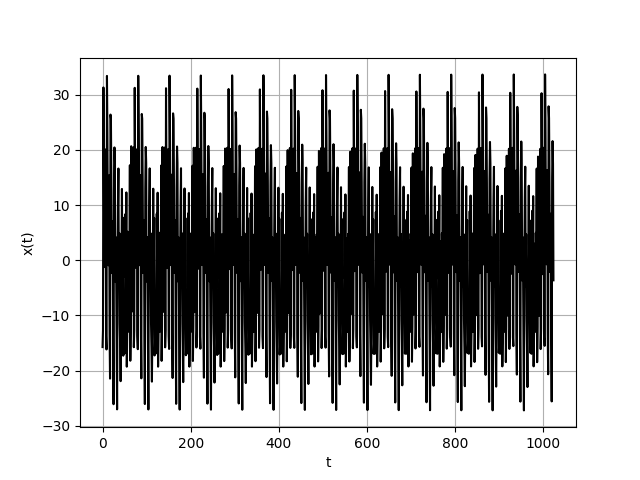
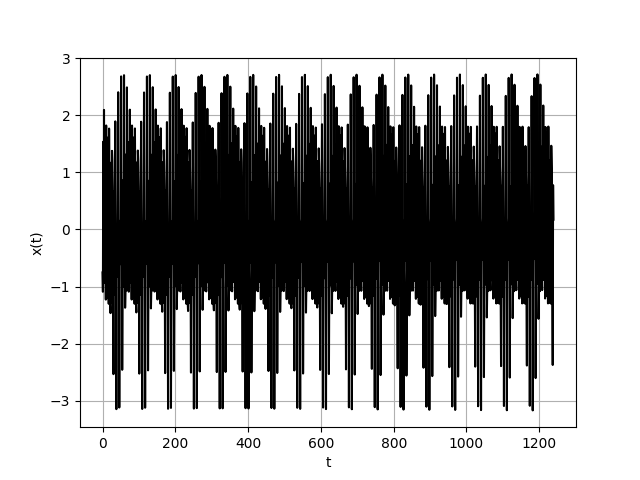
upgraded lab01

diff --git a/Lab01/main.py b/Lab01/main.py
@@ -9,43 +9,69 @@ HARMONICS = 8
 FREQUENCY = 1200
 STEP = FREQUENCY / HARMONICS
 
+
 amplitudes = []
 shifts = []
-x=[]
+
 
 for harmonic in range(HARMONICS):
-    amplitudes.append(random.uniform(0.1, 10.0))
+    amplitudes.append(random.uniform(0.0, 1.0))
     shifts.append(random.uniform(0.0, 2*np.pi))
 
-start = time.time()
-for t in range(SCALE):
-    currentSum = 0;
-    for harmonic in range(HARMONICS):
-        currentSum += amplitudes[harmonic]*np.sin(STEP*(harmonic+1)*t+shifts[harmonic])
-    x.append(currentSum)
-elapsedTime = time.time() - start;
-print("Elapsed time for x(t) calculation = {}".format(elapsedTime))
-print("----------------------------------------------------------")
+
+def signal(scale, x):
+    start = time.time()
+    for t in range(scale):
+        currentSum = 0;
+        for harmonic in range(HARMONICS):
+            currentSum += amplitudes[harmonic]*np.sin(STEP*(harmonic+1)*t+shifts[harmonic])
+        x.append(currentSum)
+    elapsedTime = time.time() - start;
+    print("Elapsed time for x(t) calculation = {}".format(elapsedTime))
+    print("----------------------------------------------------------")
+    return elapsedTime;
+
+
+x1 = []
+signal(SCALE, x1)
+
+
+x=[]
+scales = []
+times = []
+for i in range(1, 5):
+    currentScale = SCALE * i
+    scales.append(currentScale)
+    currentTime = signal(currentScale, x)
+    times.append(currentTime)
+
 
 start = time.time()
-ev = sum(x) / SCALE
+ev = sum(x1) / SCALE
 elapsedTime = time.time() - start;
 print("Expected value = {}".format(ev))
 print("Elapsed time for expected value calculation = {}".format(elapsedTime))
 print("----------------------------------------------------------")
 
 start = time.time()
-dispertion = sum(((v-ev)*(v-ev)) for v in x) / (SCALE-1)
+dispertion = sum(((v-ev)*(v-ev)) for v in x1) / (SCALE-1)
 elapsedTime = time.time() - start;
 print("Dispertion = {}".format(dispertion))
 print("Elapsed time for dispertion calculation = {}".format(elapsedTime))
 print('----------------------------------------------------------')
 
-# Drawing
+
+plt.subplot(2, 1, 1)
 t = np.arange(0, SCALE, 1)
-plt.plot(t, x, 'k')
+plt.plot(t, x1, 'k')
 plt.xlabel('t')
 plt.ylabel('x(t)')
 plt.grid(True)
+
+plt.subplot(2, 1, 2)
+plt.plot(scales, times, 'r')
+plt.xlabel('N')
+plt.ylabel('t')
+
 plt.savefig('fig.png')
-# plt.show()
+plt.show()

diff --git a/Lab02/main.py b/Lab02/main.py
@@ -1,0 +1,53 @@
+import numpy as np
+import matplotlib.pyplot as plt
+import random
+import time
+
+
+SCALE = 1024
+HARMONICS = 8
+FREQUENCY = 1200
+STEP = FREQUENCY / HARMONICS
+
+
+# class Harmonic:
+#     def __init__(self, frequency, scale):
+#         self.amplitude = random.uniform(0.0, 1.0)
+#         self.phase = random.uniform(0.0, 2*np.pi)
+#         current_xs = [0 for _ in range(scale)]
+#         current_xs = [self.amplitude*np.sin(frequency*t+self.phase) for t in range(scale)]
+#         self.xs = current_xs
+#
+#
+# class Signal:
+#     def __init__(self, harmonic_amount, scale):
+#         current_sum = [0 for _ in range(scale)]
+#         for i in range(1, harmonic_amount+1):
+#             current_harmonic = Harmonic(STEP*i, scale)
+#             current_sum = [current_sum[t]+current_harmonic.xs[t] for t in range(scale)]
+#         self.xss = current_sum
+#
+#
+# def generateSignal(harmonic_amount, scale):
+#     signal = Signal(harmonic_amount, scale)
+#     ts = [t for t in range(scale)]
+#     plt.plot(ts, signal.xss, 'k')
+#     plt.grid(True)
+#     plt.show()
+#
+#
+# generateSignal(HARMONICS, SCALE)
+# plt.subplot(2, 1, 1)
+# t = np.arange(0, SCALE, 1)
+# plt.plot(t, x1, 'k')
+# plt.xlabel('t')
+# plt.ylabel('x(t)')
+# plt.grid(True)
+#
+# plt.subplot(2, 1, 2)
+# plt.plot(scales, times, 'r')
+# plt.xlabel('N')
+# plt.ylabel('t')
+#
+# plt.savefig('fig.png')
+# plt.show()
